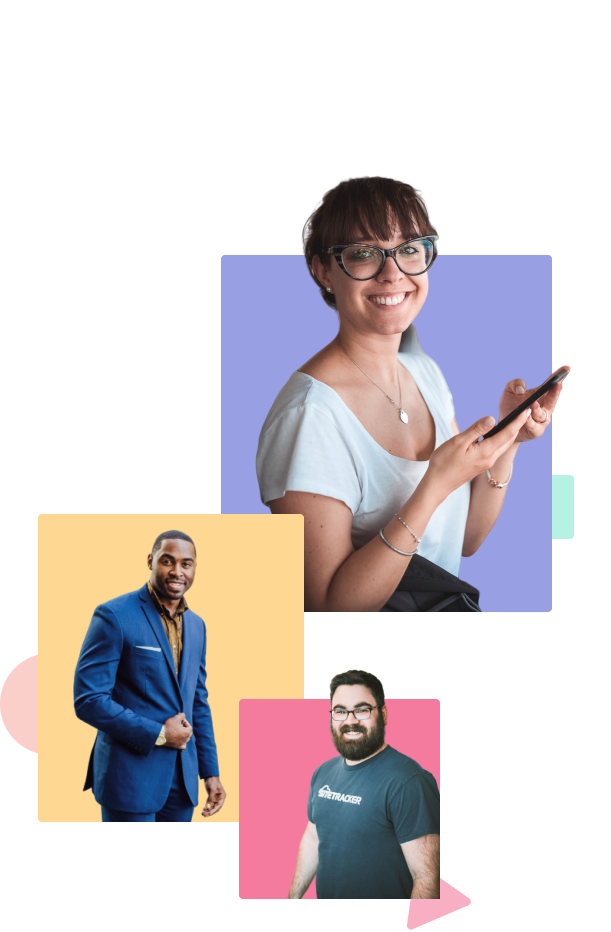
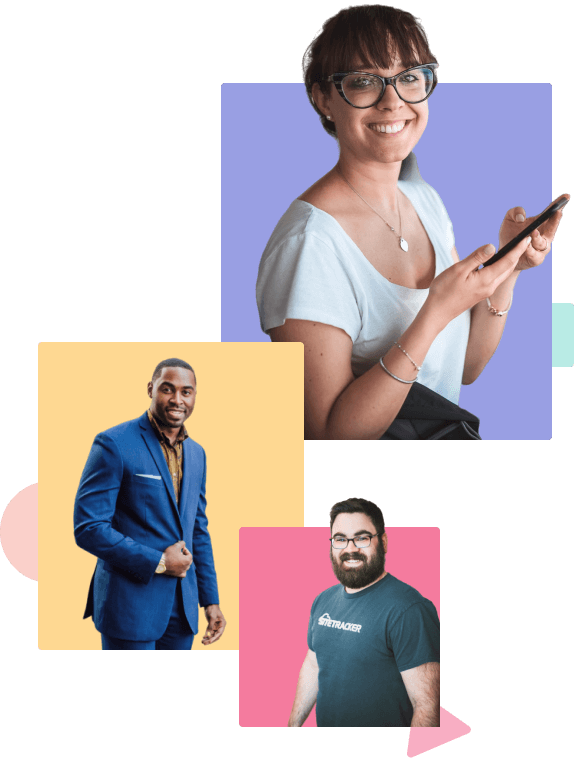
fixes

diff --git a/src/index.html b/src/index.html
@@ -7,83 +7,10 @@
     <meta name="msapplication-navbutton-color" content="#3751ff">
     <meta name="theme-color" content="#3751ff">
     <link
-      rel="apple-touch-icon-precomposed"
-      sizes="57x57"
-      href="./images/favicon/apple-touch-icon-57x57.png"
+      rel="shortcut icon"
+      href="/images/favicon.ico"
+      type="image/x-icon"
     >
-    <link
-      rel="apple-touch-icon-precomposed"
-      sizes="114x114"
-      href="./images/favicon/apple-touch-icon-114x114.png"
-    >
-    <link
-      rel="apple-touch-icon-precomposed"
-      sizes="72x72"
-      href="./images/favicon/apple-touch-icon-72x72.png"
-    >
-    <link
-      rel="apple-touch-icon-precomposed"
-      sizes="144x144"
-      href="./images/favicon/apple-touch-icon-144x144.png"
-    >
-    <link
-      rel="apple-touch-icon-precomposed"
-      sizes="60x60"
-      href="./images/favicon/apple-touch-icon-60x60.png"
-    >
-    <link
-      rel="apple-touch-icon-precomposed"
-      sizes="120x120"
-      href="./images/favicon/apple-touch-icon-120x120.png"
-    >
-    <link
-      rel="apple-touch-icon-precomposed"
-      sizes="76x76"
-      href="./images/favicon/apple-touch-icon-76x76.png"
-    >
-    <link
-      rel="apple-touch-icon-precomposed"
-      sizes="152x152"
-      href="./images/favicon/apple-touch-icon-152x152.png"
-    >
-    <link
-      rel="icon"
-      type="image/png"
-      href="./images/favicon/favicon-196x196.png"
-      sizes="196x196"
-    >
-    <link
-      rel="icon"
-      type="image/png"
-      href="./images/favicon/favicon-96x96.png"
-      sizes="96x96"
-    >
-    <link
-      rel="icon"
-      type="image/png"
-      href="./images/favicon/favicon-32x32.png"
-      sizes="32x32"
-    >
-    <link
-      rel="icon"
-      type="image/png"
-      href="./images/favicon/favicon-16x16.png"
-      sizes="16x16"
-    >
-    <link
-      rel="icon"
-      type="image/png"
-      href="./images/favicon/favicon-128.png"
-      sizes="128x128"
-    >
-    <meta name="application-name" content="&nbsp;">
-    <meta name="msapplication-TileColor" content="#ffffff">
-    <meta name="msapplication-TileImage" content="./images/favicon/mstile-144x144.png">
-    <meta name="msapplication-square70x70logo" content="./images/favicon/mstile-70x70.png">
-    <meta name="msapplication-square150x150logo" content="./images/favicon/mstile-150x150.png">
-    <meta name="msapplication-wide310x150logo" content="./images/favicon/mstile-310x150.png">
-    <meta name="msapplication-square310x310logo" content="./images/favicon/mstile-310x310.png">
-
     <link rel="stylesheet" href="./styles/main.scss">
   </head>
 
@@ -499,19 +426,19 @@
               <h3 class="footer__list-title">Demos</h3>
               <ul>
                 <li class="footer__list-item">
-                  <a class="footer__list-link" href="">Classic</a>
+                  <a class="footer__list-link" href="#">Classic</a>
                 </li>
                 <li class="footer__list-item">
-                  <a class="footer__list-link" href="">Boxy</a>
+                  <a class="footer__list-link" href="#">Boxy</a>
                 </li>
                 <li class="footer__list-item">
-                  <a class="footer__list-link" href="">Gradient</a>
+                  <a class="footer__list-link" href="#">Gradient</a>
                 </li>
                 <li class="footer__list-item">
-                  <a class="footer__list-link" href="">Minimal</a>
+                  <a class="footer__list-link" href="#">Minimal</a>
                 </li>
                 <li class="footer__list-item">
-                  <a class="footer__list-link" href="">Night</a>
+                  <a class="footer__list-link" href="#">Night</a>
                 </li>
               </ul>
             </div>

diff --git a/src/styles/activity.scss b/src/styles/activity.scss
@@ -19,6 +19,7 @@
   &__content {
     display: flex;
     justify-content: space-between;
+    padding-top: 45px;
 
     @include for-720 {
       flex-direction: column;
@@ -27,13 +28,8 @@
   }
 
   &__pic {
-    margin-top: -125px;
-    margin-right: 25px;
+    margin-right: 55px;
     max-width: 612px;
-
-    @include for-960 {
-      margin-top: 0;
-    }
 
     @include for-720 {
       margin-right: 0;
@@ -53,12 +49,16 @@
   }
 
   &__services-list {
-    padding-top: 125px;
+    padding-top: 80px;
     max-width: 405px;
 
-    @include for-720 {
+    @include for-960 {
       padding-top: 50px;
       max-width: 600px;
+    }
+
+    @include for-540 {
+      padding-top: 0;
     }
   }
 

diff --git a/src/styles/animations.scss b/src/styles/animations.scss
@@ -1,15 +1,15 @@
-// @keyframes text-blink {
-//   50% {
-//     color: transparent;
-//   }
-// }
+@keyframes text-blink {
+  50% {
+    color: transparent;
+  }
+}
 
-// @keyframes button-stripe {
-//   20% {
-//     left: 120%;
-//   }
+@keyframes button-stripe {
+  40% {
+    transform: rotate(22deg) translateX(300px);
+  }
 
-//   100% {
-//     left: 120%;
-//   }
-// }
+  100% {
+    transform: rotate(22deg) translateX(300px);
+  }
+}

diff --git a/src/styles/button.scss b/src/styles/button.scss
@@ -39,9 +39,10 @@
       position: absolute;
       content: "";
       left: -10%;
+      top: -120px;
       width: 2px;
-      height: 100px;
-      transform: rotate(22deg);
+      height: 250px;
+      transform: rotate(22deg) translateX(0);
       background-color: #fff;
       box-shadow: 0 0 3px 4px #fff;
       animation: button-stripe 5s linear infinite;

diff --git a/src/styles/utils/_vars.scss b/src/styles/utils/_vars.scss
@@ -6,12 +6,8 @@ $bright-blue: #3751ff;
 $pink: #ff2e6a;
 $cream: #fff9ea;
 
-// $font-reg: "Halyard Text Regular";
 $font-reg: "Halyard Text";
-// $font-med: "Halyard Text Medium";
 $font-med: "Halyard Display";
-// $font-semi: "Halyard Text SemiBold";
-// $font-semi: "Halyard Display";
 
 $header-height: 80px;
 $header-height-min: 50px;
